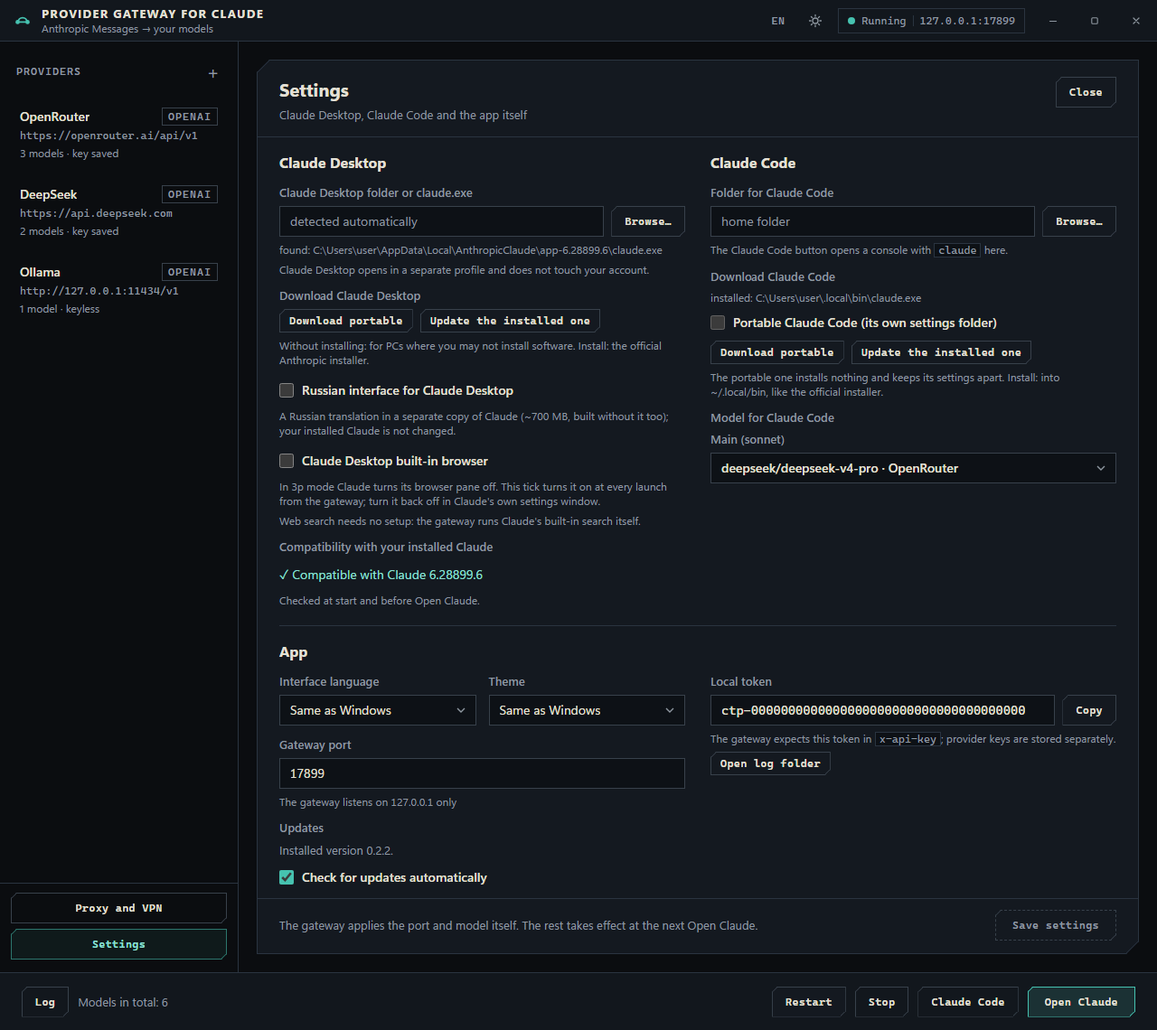
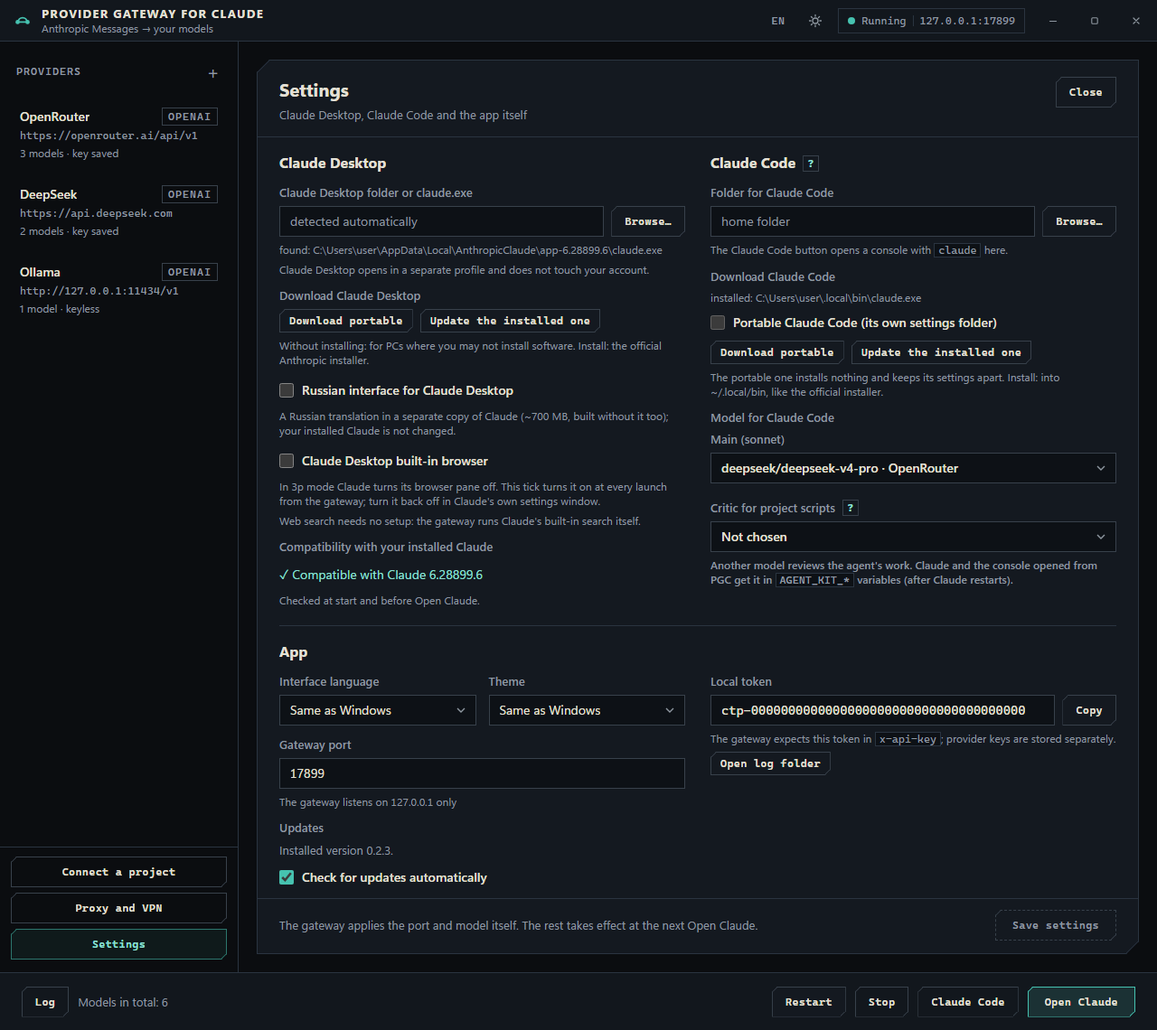
docs: README for 0.2.3 (en, ru) - Connect a project, agent-kit inside, the critic for project scripts and what it passes to scripts (the local token), "?" help, Node 22+, new addresses and folders, how a build gets agent-kit; README screenshots retaken with a new one of the project page; CHANGELOG a

Changed region(s): [[0.625, 0.4912, 0.9375, 0.5833], [0.0625, 0.8289, 0.1562, 0.8596]]

diff --git a/crates/ctp-app/ui/i18n.js b/crates/ctp-app/ui/i18n.js
@@ -242,7 +242,7 @@ const STRINGS = {
     "project.checkRuled": "в имени слово «{word}»: команда меняет или выпускает, а не проверяет",
     "project.checksByHand": "Добавьте в steps своего .claude/verify.json:",
     "project.groupPlan": "Что добавить",
-    "project.planHint": "Отмеченное будет создано или дописано. Существующие файлы не перезаписываются.",
+    "project.planHint": "Отмеченное будет создано или дописано. Существующие файлы не заменяются: в .gitignore и настройки Claude только добавляются строки.",
     "project.planEmpty": "Добавлять нечего: всё уже есть.",
     "project.planOld": "Эта версия agent-kit ещё не умеет показывать план. Обновите agent-kit и откройте осмотр снова.",
     "project.create": "Создать",
@@ -570,7 +570,7 @@ const STRINGS = {
     "project.groupState": "What the project has",
     "project.stateLine": "{root}: fine {ok}, missing {missing}, problems {problem}",
     "project.groupPlan": "What to add",
-    "project.planHint": "The ticked items are created or appended to. Existing files are never overwritten.",
+    "project.planHint": "The ticked items are created or appended to. Existing files are not replaced: .gitignore and the Claude settings only get lines added.",
     "help.what": "What is this and why?",
     "help.close": "Got it",
     "help.project.title": "What “Connect a project” is",

diff --git a/README.ru.md b/README.ru.md
@@ -47,6 +47,9 @@ Claude Desktop умеет работать в режиме стороннего 
 - **Подстраивается под капризные модели.** Провайдеры принимают разное, и многие отвечают голым 400. Шлюз предотвращает известные беды (повтор имён инструментов; разговор, не влезший в окно, сообщается Claude Code так же, как это делает Anthropic, и он сам сжимает его), а когда модель отвергает запрос без объяснений, упрощает его по шагам: картинки убираются, уровень рассуждения, параметры сэмплирования и stream_options отбрасываются, имена инструментов сокращаются, подряд идущие сообщения сливаются, схемы инструментов упрощаются, инструментов остаётся не больше 128. Рассуждение прошлых ответов возвращается провайдерам, которым оно нужно (режим рассуждения DeepSeek с инструментами), и убирается у тех, кто его не принимает. Тот единственный шаг, который дважды подтвердил помощь для модели, запоминается в `model-profiles.json` рядом с настройками (удалить файл — забыть; записи живут 30 дней), а журнал шлюза пишет, что он сделал и что ответил провайдер.
 - **Не ломается после обновлений Claude**: приложение читает правила моделей из установленной версии, сверяет поля конфигурации и показывает в настройках, если что-то перестало совпадать.
 - **Русский интерфейс Claude Desktop** (по желанию): отдельная копия Claude с официальным русским переводом claude.ai. В этой копии в выборе папки Code есть и **«Без папки»**, который режим стороннего провайдера скрывает. Когда Claude обновляется, приложение готовит новую копию в фоне, и «Открыть Claude» не ждёт. Установленный Claude не меняется. Копия собирается и без русского языка (без перевода): только в ней процессы, которые запускает Claude (сессии Code, их npm, uv, git, MCP-серверы), видят настоящую папку `AppData\Local`, а не папку приложения. Сама копия Claude не обновляет: новые версии ставит обычный Claude.
+- **Подключить проект к agent-kit** без команд в консоли: проверки после правок агента, вторая модель, которая проверяет его работу, и охрана секретов. Проверки проекта показаны с галочками, и ничего не уходит с компьютера. См. [Подключить проект](#подключить-проект).
+- **Модель-критик для скриптов проекта**: другая модель шлюза проверяет работу агента, так что проверка работает и без подписки Claude.
+- **«?» у непростых настроек** открывает короткое пояснение простыми словами: что это, зачем и что будет, если ничего не трогать.
 - **Работает в трее**: окно можно закрыть, шлюз продолжит работать.
 - **Обновляется само** из релизов GitHub; каждое обновление сверяется с ключом подписи, встроенным в программу.
 - **Переключатель встроенного браузера**: режим стороннего провайдера выключает у Claude Desktop панель браузера; галочка в Настройках включает её при каждом запуске из шлюза.
@@ -58,6 +61,7 @@ Claude Desktop умеет работать в режиме стороннего 
 - [Claude Desktop](https://claude.ai/download) для чата. Проверено на Claude Desktop 6.28899.6.
 - [Claude Code](https://docs.claude.com/en/docs/claude-code) для агента в терминале (по желанию). Проверено на Claude Code 2.1.331.
 - Аккаунт и API-ключ хотя бы у одного провайдера или локальный сервер моделей.
+- Только для **«Подключить проект»**: [Node.js](https://nodejs.org) 22 или новее, git и Claude Code.
 
 ## Установка
 
@@ -91,6 +95,32 @@ Get-FileHash .\Provider-Gateway-for-Claude_*_x64-setup.exe -Algorithm SHA256
 ### Основная модель для Claude Code
 
 Настройки → **Модель для Claude Code** выбирает модель шлюза для Claude Code. В консоли кнопки **Claude Code** на неё идут все роли, которые просит Claude Code: сессия, субагенты, которые наследуют модель (Explore, Plan), `model: opus`, `model: haiku` и `model: fable`, а каждый пункт `/model` показывает её по имени вместо Opus и Fable от Anthropic. Во вкладке Code у Claude Desktop (со следующего **«Открыть Claude»**) это основная модель (`sonnet`); остальные роли там Desktop выбирает сам. Ещё субагент может прямо указать любую модель шлюза в поле `model:`, а `/model <имя>` переключает сессию.
+
+### Критик для скриптов проекта
+
+Настройки → **«Критик для скриптов проекта»** выбирает вторую модель шлюза, которая проверяет работу агента (критик agent-kit отвечает ACCEPT или REJECT с причиной). Лучше модель, отличная от основной: у одной и той же модели одинаковые слепые пятна. Когда критик выбран и шлюз работает, Claude Desktop и консоль из PGC получают `AGENT_KIT_PGC_URL`, `AGENT_KIT_PGC_TOKEN` (локальный токен шлюза), `AGENT_KIT_PGC_MODEL` и `AGENT_KIT_CRITIC_VIA=pgc`, и скрипты проекта, запущенные там, могут к нему обратиться. Токен работает только на `127.0.0.1`, но его может прочитать любой скрипт из этих сессий. Смена критика шлюз не перезапускает.
+
+### Подключить проект
+
+<p align="center">
+  <img src="docs/images/project-ru.png" width="860" alt="Подключить проект: осмотр, проверки проекта с галочками и план простыми словами">
+</p>
+
+**«Подключить проект»** (слева внизу) ставит в папку проекта [agent-kit](#agent-kit) — плагин Claude Code — без команд:
+
+1. **«Проверить»** ничего не меняет. Говорит, чего не хватает: Node.js 22+, git, Claude Code, git-репозитория, выбранного критика, есть ли незакоммиченные правки.
+2. **«Подключить»** включает плагин только у вас (`.claude/settings.local.json`, вне git), если не отмечено **«Для всей команды»**. Выключенный вами плагин включается обратно только в этом проекте.
+3. Дальше страница показывает, что есть в проекте, **проверки проекта** и **план с галочками**:
+   - проверки — команды, которые проект уже записал у себя (скрипты package.json, Cargo, Makefile, pyproject, Go, его CI), у каждой файл и строка. Команды, имя которых говорит, что они что-то меняют или выкладывают (`fix`, `deploy`, `publish`…), стоят без галочки, с причиной. Отмеченные становятся шагами нового `.claude/verify.json`; свой `verify.json` проекта не меняется, шаги показываются, чтобы добавить их вручную. Ничего не запускается;
+   - план собирает то, что agent-kit предлагает добавить (инструкции для агента, проверки и критик, защита, документы проекта), под понятными названиями; «?» говорит, зачем каждый пункт;
+   - черновик правил критика из README, AGENTS.md и ADR самого проекта предлагается без галочки, у каждого правила — файл и строка, откуда оно взято.
+4. **«Применить отмеченное»** применяет только отмеченное. Существующие файлы не заменяются; в `.gitignore` и настройки Claude дописываются строки. Новые сессии Claude видят плагин.
+
+Модель не спрашивается, и файлы проекта никуда не отправляются: на 15 открытых проектах отбор кодом нашёл столько же проверок их CI, сколько модель.
+
+#### agent-kit
+
+В установщике и переносном exe есть закреплённая версия agent-kit (MIT). Если в Claude Code нет маркетплейса agent-kit, PGC распаковывает его в свою папку и ставит оттуда. Более новый PGC или более новый agent-kit в маркетплейсе-папке, которую вы добавили сами, предлагает на странице **«Обновить agent-kit»**; само ничего не обновляется.
 
 ### Веб-поиск
 
@@ -137,7 +167,8 @@ Get-FileHash .\Provider-Gateway-for-Claude_*_x64-setup.exe -Algorithm SHA256
 |---|---|
 | К добавленным вами провайдерам | Когда Claude или Claude Code отправляет запрос, а также по «Загрузить с провайдера» и «Проверить связь» |
 | `models.opencode.ai` | По «Загрузить с провайдера» — за именами и лимитами моделей; данных о вас не передаётся |
-| `claude.ai/i18n/ru.json` | Только с включённым русским интерфейсом Claude, после обновления Claude |
+| `claude.ai/i18n/ru.json`, `claude.ai/i18n/dynamic/ru.json` | Только с включённым русским интерфейсом Claude, после обновления Claude |
+| Источник agent-kit, который вы сами ввели в **«Подключить проект»** | Только если в Claude Code нет маркетплейса agent-kit и вы его задали; встроенному agent-kit сеть не нужна |
 | `github.com` (релизы этого репозитория) | Проверка обновлений при старте и раз в сутки; выключается в настройках |
 | `html.duckduckgo.com`, `lite.duckduckgo.com`, `search.brave.com` | Когда работает встроенный веб-поиск Claude: шлюз отвечает на него сам и отправляет слова, которые модель выбрала для поиска (без аккаунта и ключей). Включён всегда (переключателя пока нет) |
 | `github.com/MetaCubeX/mihomo` (релизы) | Только по кнопке «Скачать ядро» |
@@ -162,6 +193,9 @@ Get-FileHash .\Provider-Gateway-for-Claude_*_x64-setup.exe -Algorithm SHA256
 | Адреса VPN-подписок | Диспетчер учётных данных Windows, та же служба, имена `subscription:<id>` |
 | Портативный Claude Desktop | `%LOCALAPPDATA%\ClaudeProviderGateway\claude-desktop\app-<версия>` |
 | Портативный Claude Code и его настройки | `%LOCALAPPDATA%\ClaudeProviderGateway\claude-code` (`config` — его `CLAUDE_CONFIG_DIR`) |
+| Встроенный agent-kit, распакованный | `%LOCALAPPDATA%\ClaudeProviderGateway\agent-kit` |
+| Перевод меню уровней для установленного Claude | `%APPDATA%\app.provider-gateway-for-claude\claude-ru-dynamic.json` |
+| Ваша модель Claude Code, сохранённая на время консоли PGC | `%LOCALAPPDATA%\ClaudeProviderGateway\code-model-before.json` |
 
 claude.ai иногда отвечает программам проверкой на бота. Тогда приложение загружает перевод во встроенном браузере (WebView2), который проходит проверку, как обычный посетитель; если за несколько секунд она не прошла сама (claude.ai просит поставить галочку), окно появится, чтобы вы её завершили. Если не вышло и так, откройте `https://claude.ai/i18n/ru.json` в браузере и сохраните как этот `claude-ru.json` — точный путь покажет проверка совместимости в настройках.
 
@@ -183,7 +217,7 @@ claude.ai иногда отвечает программам проверкой 
 - `crates/ctp-gateway` — шлюз Anthropic Messages, работает и сам по себе (`ctp-gateway --providers-file providers.json`, токен клиентов — в `GATEWAY_TOKEN`);
 - `crates/ctp-app` — приложение для Windows (Tauri 2).
 
-Без ключа обновлений проекта (`TAURI_SIGNING_PRIVATE_KEY`) `-Installer` соберёт обычный установщик без подписей обновлений. Релизы готовит `tools/release.ps1` (подписанный установщик, `latest.json`, контрольные суммы). `tools/cloudflare-mirror` — необязательное зеркало обновлений для сетей, где GitHub медленный или недоступен.
+agent-kit попадает в сборку, только если `.\tools\kit-snapshot.ps1` взял коммит из `crates\ctp-app\kit.pin` из клона agent-kit в `..\agent-kit`; без этого приложение работает, а «Подключить проект» ставит agent-kit из маркетплейса или заданного источника. Без ключа обновлений проекта (`TAURI_SIGNING_PRIVATE_KEY`) `-Installer` соберёт обычный установщик без подписей обновлений. Релизы готовит `tools/release.ps1` (подписанный установщик, `latest.json`, контрольные суммы). `tools/cloudflare-mirror` — необязательное зеркало обновлений для сетей, где GitHub медленный или недоступен.
 
 ## Участие
 

diff --git a/README.md b/README.md
@@ -47,6 +47,9 @@ Claude Desktop can run in third-party inference mode and Claude Code can talk to
 - **Adapts to picky models.** Providers differ in what they accept, and many answer with a bare 400. The gateway prevents the known trouble (repeated tool names, a conversation that no longer fits the window is reported to Claude Code the way Anthropic does, so it compacts by itself), and when a model refuses a request without saying why, it simplifies it step by step: images left out, reasoning effort, sampling parameters and stream options dropped, tool names shortened, consecutive messages merged, tool schemas simplified, tools capped at 128. The reasoning of earlier replies goes back to providers that require it (DeepSeek's thinking mode with tools) and is dropped for those that refuse it. The one step that made the difference, confirmed twice for a model, is remembered in `model-profiles.json` next to the settings (delete it to forget; entries expire after 30 days) and the gateway log says what it did and what the provider answered.
 - **Keeps working after Claude updates**: the app reads Claude's model rules from the installed version, checks its config fields and tells you in Settings if something no longer matches.
 - **Russian interface for Claude Desktop** (optional): a separate patched copy of Claude with claude.ai's own Russian translation. The copy also brings back **No folder** in the Code folder picker, which third-party mode hides. When Claude updates, the app prepares the new copy in the background, so **Open Claude** does not wait. Your installed Claude is not modified. The copy is built without Russian too (no translation): only in it do the processes Claude starts (Code sessions, their npm, uv, git, MCP servers) see the real `AppData\Local` instead of the app's folder. The copy itself does not update Claude; new versions come from the regular Claude.
+- **Connect a project to agent-kit** without typing commands: checks after the agent's edits, a second model that reviews its work, and secret guarding. The project's own checks are listed with ticks and nothing leaves the computer. See [Connect a project](#connect-a-project).
+- **A critic model for project scripts**: pick another gateway model that reviews an agent's work, so a reviewer works without a Claude subscription too.
+- **"?" next to the harder settings** opens a short explanation in plain words: what it is, why it is there and what happens if you leave it alone.
 - **Lives in the tray** while you work; the gateway keeps running when the window is closed.
 - **Updates itself** from GitHub Releases; every update is verified against a signing key built into the app.
 - **Built-in browser switch**: third-party mode turns Claude Desktop's browser pane off; a tick in Settings turns it on at every launch from the gateway.
@@ -58,6 +61,7 @@ Claude Desktop can run in third-party inference mode and Claude Code can talk to
 - [Claude Desktop](https://claude.ai/download) for the desktop chat. Tested with Claude Desktop 6.28899.6.
 - [Claude Code](https://docs.claude.com/en/docs/claude-code) for the terminal agent (optional). Tested with Claude Code 2.1.331.
 - An account and API key with at least one provider, or a local model server.
+- For **Connect a project** only: [Node.js](https://nodejs.org) 22 or newer, git and Claude Code.
 
 ## Install
 
@@ -91,6 +95,32 @@ Set **Max reasoning level** on a provider and Claude offers a level picker for i
 ### Main model for Claude Code
 
 Settings → **Model for Claude Code** picks the gateway model for Claude Code. In the **Claude Code** console every role Claude Code asks for goes to it: the session, subagents that inherit the model (Explore, Plan), `model: opus`, `model: haiku` and `model: fable`, and every row of `/model` shows it by name instead of Anthropic's own Opus or Fable. In the Code tab of Claude Desktop (from the next **Open Claude**) it is the main (`sonnet`) model; the other roles there are Desktop's own choice. A subagent can also name any gateway model directly in its `model:` field, and `/model <name>` switches the session.
+
+### Critic for project scripts
+
+Settings → **Critic for project scripts** picks a second gateway model that reviews an agent's work (agent-kit's critic answers ACCEPT or REJECT with a reason). Another model than the main one is better: the same model has the same blind spots. When a critic is chosen and the gateway runs, Claude Desktop and the console opened from PGC get `AGENT_KIT_PGC_URL`, `AGENT_KIT_PGC_TOKEN` (the gateway's local token), `AGENT_KIT_PGC_MODEL` and `AGENT_KIT_CRITIC_VIA=pgc`, so project scripts started there can call it. The token works only on `127.0.0.1`; still, every script started from those sessions can read it. Changing the critic does not restart the gateway.
+
+### Connect a project
+
+<p align="center">
+  <img src="docs/images/project-en.png" width="860" alt="Connect a project: the inspection, the project's checks with ticks and the plan in plain words">
+</p>
+
+**Connect a project** (bottom left) sets up [agent-kit](#agent-kit), a Claude Code plugin, in a project folder without commands:
+
+1. **Check** changes nothing. It says what is missing: Node.js 22+, git, Claude Code, a git repository, no critic chosen, uncommitted edits.
+2. **Connect** turns the plugin on only for you (`.claude/settings.local.json`, outside git), unless you tick **For the whole team**. A plugin you turned off is turned back on only in this project.
+3. The page then shows what the project has, the **project checks** and a **plan with ticks**:
+   - checks are the commands the project already writes down (package.json scripts, Cargo, Makefile, pyproject, Go, its CI), each with the file and line it comes from. Commands whose name says they change or ship something (`fix`, `deploy`, `publish`…) are unticked, with the reason. The ticked ones become the steps of a new `.claude/verify.json`; a project's own `verify.json` is not changed, and the steps are shown to add by hand. Nothing is run;
+   - the plan groups what agent-kit offers to add (instructions for the agent, checks and the critic, protection, project documents) under plain names; "?" says what each one is for;
+   - a draft of critic rules made from the project's own README, AGENTS.md and ADRs is offered unticked, with each rule and the file and line it came from.
+4. **Apply the ticked** applies only what is ticked. Existing files are not replaced; `.gitignore` and the Claude settings get lines added. New Claude sessions see the plugin.
+
+No model is asked and no project file is sent anywhere: on 15 open projects a pick by code found as many of their CI checks as a model did.
+
+#### agent-kit
+
+The installer and the portable exe carry a pinned agent-kit (MIT). When Claude Code has no agent-kit marketplace, PGC unpacks it to its own folder and installs it from there. A newer PGC, or a newer agent-kit in a marketplace folder you added yourself, offers **Update agent-kit** on the page; nothing updates by itself.
 
 ### Web search
 
@@ -137,7 +167,8 @@ The app talks to:
 |---|---|
 | The providers you add | When Claude or Claude Code sends a request, and on Load models / Test connection |
 | `models.opencode.ai` | On **Load from provider**, for model names and limits; nothing about you is sent |
-| `claude.ai/i18n/ru.json` | Only with the Russian Claude interface turned on, when Claude updates |
+| `claude.ai/i18n/ru.json`, `claude.ai/i18n/dynamic/ru.json` | Only with the Russian Claude interface turned on, when Claude updates |
+| An agent-kit source you type yourself on **Connect a project** | Only if Claude Code has no agent-kit marketplace and you set one; the built-in agent-kit needs no network |
 | `github.com` (this repository's releases) | Update check at start and once a day; turn it off in Settings |
 | `html.duckduckgo.com`, `lite.duckduckgo.com`, `search.brave.com` | When Claude's built-in web search runs: the gateway answers it itself and sends the words the model chose to search for (no account, no keys). It is always on (there is no switch for it yet) |
 | `github.com/MetaCubeX/mihomo` (releases) | Only on **Download the core** |
@@ -162,6 +193,9 @@ There is no telemetry. Prompts and answers go only between Claude and your provi
 | VPN subscription addresses | Windows Credential Manager, the same service, names `subscription:<id>` |
 | Portable Claude Desktop | `%LOCALAPPDATA%\ClaudeProviderGateway\claude-desktop\app-<version>` |
 | Portable Claude Code and its settings | `%LOCALAPPDATA%\ClaudeProviderGateway\claude-code` (`config` is its `CLAUDE_CONFIG_DIR`) |
+| The built-in agent-kit, unpacked | `%LOCALAPPDATA%\ClaudeProviderGateway\agent-kit` |
+| Effort-menu translation for the installed Claude | `%APPDATA%\app.provider-gateway-for-claude\claude-ru-dynamic.json` |
+| Your own Claude Code model, kept while a PGC console runs | `%LOCALAPPDATA%\ClaudeProviderGateway\code-model-before.json` |
 
 claude.ai sometimes answers programs with a bot check. The app then loads the translation in its built-in browser (WebView2), which passes the check like any visitor; if it does not pass on its own within a few seconds (claude.ai wants a box ticked), that window appears so you can finish it. If it still fails, open `https://claude.ai/i18n/ru.json` in your browser and save it as that `claude-ru.json`: the compatibility check in Settings shows the exact path.
 
@@ -183,7 +217,7 @@ The workspace has three crates:
 - `crates/ctp-gateway` — the Anthropic Messages gateway, also usable on its own (`ctp-gateway --providers-file providers.json`, with the client token in `GATEWAY_TOKEN`);
 - `crates/ctp-app` — the Windows app (Tauri 2).
 
-Without the project's updater key (`TAURI_SIGNING_PRIVATE_KEY`), `-Installer` builds a plain installer with no update signatures. Releases are prepared with `tools/release.ps1` (signed installer, `latest.json`, checksums). `tools/cloudflare-mirror` is an optional update mirror for networks where GitHub is slow or unreachable.
+A build carries agent-kit only after `.\tools\kit-snapshot.ps1` has taken the commit pinned in `crates\ctp-app\kit.pin` from an agent-kit clone in `..\agent-kit`; without it the app works and **Connect a project** installs agent-kit from a marketplace or a source you set. Without the project's updater key (`TAURI_SIGNING_PRIVATE_KEY`), `-Installer` builds a plain installer with no update signatures. Releases are prepared with `tools/release.ps1` (signed installer, `latest.json`, checksums). `tools/cloudflare-mirror` is an optional update mirror for networks where GitHub is slow or unreachable.
 
 ## Contributing
 

diff --git a/docs/releases/v0.2.3.md b/docs/releases/v0.2.3.md
@@ -12,15 +12,17 @@ Claude Code works with an Anthropic API key, and a new page connects agent-kit t
 
 ### Added
 
-- **Connect a project.** A sidebar page turns agent-kit (checks, a critic and secret guarding for agents) on in a project without typing commands. "Check" changes nothing and says what is missing; "Connect" enables it only for you unless you tick "for the whole team". Then it shows what the project has and a plan with ticks; only ticked items are applied, and existing files are never overwritten.
+- **Connect a project.** A sidebar page turns agent-kit (checks, a critic and secret guarding for agents) on in a project without typing commands. "Check" changes nothing and says what is missing; "Connect" enables it only for you unless you tick "for the whole team". Then it shows what the project has and a plan with ticks; only ticked items are applied, and existing files are not replaced (`.gitignore` and the Claude settings get lines added).
 
 - **Project checks with ticks.** The page lists the checks the project already writes down (package.json, Cargo, Makefile, pyproject, Go, its CI), each with its file and line. Likely checks are ticked; commands whose name says they change or ship something are unticked, with the reason. The ticked ones become the steps of a new `.claude/verify.json`; a project's own one is left alone, and the steps are shown to add by hand. Nothing is run, and no file leaves the computer.
 
-- **agent-kit comes inside PGC.** The installer carries a pinned agent-kit, so connecting a project needs no other download; a newer PGC offers "Update agent-kit" on the page, nothing updates by itself. agent-kit needs Node.js 22 or newer.
+- **The plan in plain words.** What agent-kit offers is grouped (instructions for the agent, checks and the critic, protection, project documents) under plain names, with the files in small type; "?" next to each item, and next to the harder settings of the app, explains what it is for. A draft of critic rules made from the project's own README and ADRs is offered unticked, each rule with the file and line it came from. A check that already caught errors in this project says so.
+
+- **agent-kit comes inside PGC.** The installer carries a pinned agent-kit, so connecting a project usually needs no other download; a newer PGC offers "Update agent-kit" on the page, nothing updates by itself. agent-kit needs Node.js 22 or newer.
 
 - **A critic model for project scripts.** In the settings you can pick another model that reviews an agent's work. Claude and the console opened from PGC pass it to project scripts, so a reviewer works without a Claude subscription too.
 
-Checked live: Opus 5.5 with an Anthropic API key answers in the Code tab of Claude Desktop and loads MCP tools through tool search.
+Checked live: Opus 5.5 with an Anthropic API key answers in the Code tab of Claude Desktop and loads MCP tools through tool search. Connect a project on a test repository: the checks and the plan, Apply, "Update agent-kit" and the critic draft.
 
 ### Not checked yet
 
@@ -45,15 +47,17 @@ Claude Code работает с ключом Anthropic API, а новая стр
 
 ### Добавлено
 
-- **Подключить проект.** Страница в боковой панели включает agent-kit (проверки, критик и охрана секретов для агентов) в проекте без ручных команд. «Проверить» ничего не меняет и говорит, чего не хватает; «Подключить» включает его только у вас, если не отмечено «для всей команды». Потом страница показывает, что есть в проекте, и план с галочками; применяется только отмеченное, существующие файлы не перезаписываются.
+- **Подключить проект.** Страница в боковой панели включает agent-kit (проверки, критик и охрана секретов для агентов) в проекте без ручных команд. «Проверить» ничего не меняет и говорит, чего не хватает; «Подключить» включает его только у вас, если не отмечено «для всей команды». Потом страница показывает, что есть в проекте, и план с галочками; применяется только отмеченное, существующие файлы не заменяются (в `.gitignore` и настройки Claude дописываются строки).
 
 - **Проверки проекта с галочками.** Страница показывает проверки, которые проект уже записал у себя (package.json, Cargo, Makefile, pyproject, Go, его CI), у каждой — файл и строка. Похожие на проверки отмечены; команды, имя которых говорит, что они что-то меняют или выпускают, — без галочки и с причиной. Отмеченные становятся шагами нового `.claude/verify.json`; свой файл проекта не трогается, шаги показываются, чтобы добавить их вручную. Ничего не запускается, и ни один файл не уходит с компьютера.
 
-- **agent-kit приезжает внутри PGC.** В установщике есть закреплённая версия agent-kit, так что для подключения больше ничего качать не нужно; более новый PGC предлагает «Обновить agent-kit» на странице, сам ничего не обновляет. agent-kit нужен Node.js 22 или новее.
+- **План простыми словами.** То, что предлагает agent-kit, собрано в блоки (инструкции для агента, проверки и критик, защита, документы проекта) под понятными названиями, файлы — мелко под ними; «?» у каждого пункта и у непростых настроек программы объясняет, зачем это. Черновик правил критика из README и ADR самого проекта предлагается без галочки, у каждого правила — файл и строка, откуда оно взято. Проверка, которая уже ловила ошибки в этом проекте, говорит об этом.
+
+- **agent-kit приезжает внутри PGC.** В установщике есть закреплённая версия agent-kit, так что для подключения обычно больше ничего качать не нужно; более новый PGC предлагает «Обновить agent-kit» на странице, сам ничего не обновляет. agent-kit нужен Node.js 22 или новее.
 
 - **Модель-критик для скриптов проекта.** В настройках можно выбрать другую модель, которая проверяет работу агента. Claude и консоль из PGC передают её скриптам проекта, так что проверка работает и без подписки Claude.
 
-Проверено вживую: Opus 5.5 с ключом Anthropic отвечает во вкладке Code у Claude Desktop и подгружает инструменты MCP через поиск.
+Проверено вживую: Opus 5.5 с ключом Anthropic отвечает во вкладке Code у Claude Desktop и подгружает инструменты MCP через поиск. «Подключить проект» на тестовом репозитории: проверки и план, «Применить», «Обновить agent-kit» и черновик критика.
 
 ### Ещё не проверено
 

diff --git a/CHANGELOG.md b/CHANGELOG.md
@@ -18,9 +18,9 @@ All notable changes to this project are listed here. The format follows [Keep a 
 
 ### Added
 
-- **Connect a project.** A new sidebar page connects agent-kit (checks, a critic and secret guarding for agents) to a project without typing commands. **Check** changes nothing and names what is missing: Node 22+, Claude Code, a git repository, where to get agent-kit, no critic chosen, uncommitted edits. **Connect** turns the plugin on only for you (`.claude/settings.local.json`, outside git) unless "for the whole team" is ticked, and updates an old copy. Then it shows the inspection and a plan with ticks; only ticked items are applied, and existing files are never overwritten. Every case has a test, and a test fails when a case of the table has none (ADR-014).
+- **Connect a project.** A new sidebar page connects agent-kit (checks, a critic and secret guarding for agents) to a project without typing commands. **Check** changes nothing and names what is missing: Node 22+, Claude Code, a git repository, where to get agent-kit, no critic chosen, uncommitted edits. **Connect** turns the plugin on only for you (`.claude/settings.local.json`, outside git) unless "for the whole team" is ticked, and updates an old copy. Then it shows the inspection and a plan with ticks; only ticked items are applied, and existing files are not replaced (`.gitignore` and the Claude settings get lines added). Every case has a test, and a test fails when a case of the table has none (ADR-014).
 
-- **Project checks with ticks.** "Connect a project" lists the checks the project already writes down (package.json scripts, Cargo, Makefile, pyproject, Go, its CI), each with the file and line it comes from. The likely checks are ticked; commands whose name says they change or ship something (`fix`, `update`, `deploy`, `publish`…) are shown unticked with the reason, and a person may tick them. The ticked ones become the steps of a new `.claude/verify.json`; a project's own `verify.json` is never changed: checks it already runs are shown unticked, and the ticked steps are shown as ready text to add by hand. PGC carries agent-kit `4f7c7d90a359`, which gives this list. The page shows agent-kit's own texts (what the inspection found, the plan, the reasons) in the window's language, Russian or English. Nothing is run and no file leaves the computer: on 15 open projects this pick by code found 44 of the 59 checks their CI runs, about as many as a model did, so no model is asked (ADR-016).
+- **Project checks with ticks.** "Connect a project" lists the checks the project already writes down (package.json scripts, Cargo, Makefile, pyproject, Go, its CI), each with the file and line it comes from. The likely checks are ticked; commands whose name says they change or ship something (`fix`, `update`, `deploy`, `publish`…) are shown unticked with the reason, and a person may tick them. The ticked ones become the steps of a new `.claude/verify.json`; a project's own `verify.json` is never changed: checks it already runs are shown unticked, and the ticked steps are shown as ready text to add by hand. PGC carries agent-kit `4f7c7d90a359`, which gives this list. The page shows agent-kit's own texts (what the inspection found, the plan, the reasons) in the window's language, Russian or English. Nothing is run and no file leaves the computer: on 15 open projects this pick by code found 44 of the 59 checks their CI runs (with 54 extra picks, so the list is for a person to tick), about as many as a model did, so no model is asked (ADR-016).
 
 - **What agent-kit learned, and a draft of critic rules.** Next to a check the page shows how many times it caught an error in this project (it failed, then passed after a fix), and advises about a long step that never failed; nothing is removed by itself. When the project has no `.claude/critic.md`, the plan offers one made from the project's own rules (README, AGENTS.md, ADRs) by code: unticked, with the rules shown in full. A model is not asked: on the bench its draft made the critic reject clean changes.
 

diff --git a/docs/adr/016-smart-setup.md b/docs/adr/016-smart-setup.md
@@ -60,7 +60,7 @@
 - человек отказался отправлять.
 
 Итог замера от 25.11 (15 открытых проектов, эталон — 59 проверок из их CI; подробности — в
-ADR-016 agent-kit и его `bench/results/README.md`):
+ADR-016 agent-kit и его замерах (bench agent-kit)):
 
 | Способ | Нашёл из 59 | Лишних |
 |---|---|---|
@@ -82,5 +82,5 @@ ADR-016 agent-kit и его `bench/results/README.md`):
 - Модель не может запустить ничего, кроме того, что уже записано в проекте, и только с
   согласия.
 - Польза доказывается замером до включения. Без пользы остаётся настройка кодом.
-- Один запрос к модели на подключение — по согласию и с оценкой цены. Сколько в нём токенов,
-  ещё не замерено: 10–30 тыс. — прикидка, её проверит замер.
+- Запросов к модели при подключении нет: по итогу замера PGC показывает отбор кодом. Если шаг с
+  моделью когда-нибудь включат, он пойдёт по согласию и с оценкой цены (Decision 4).
